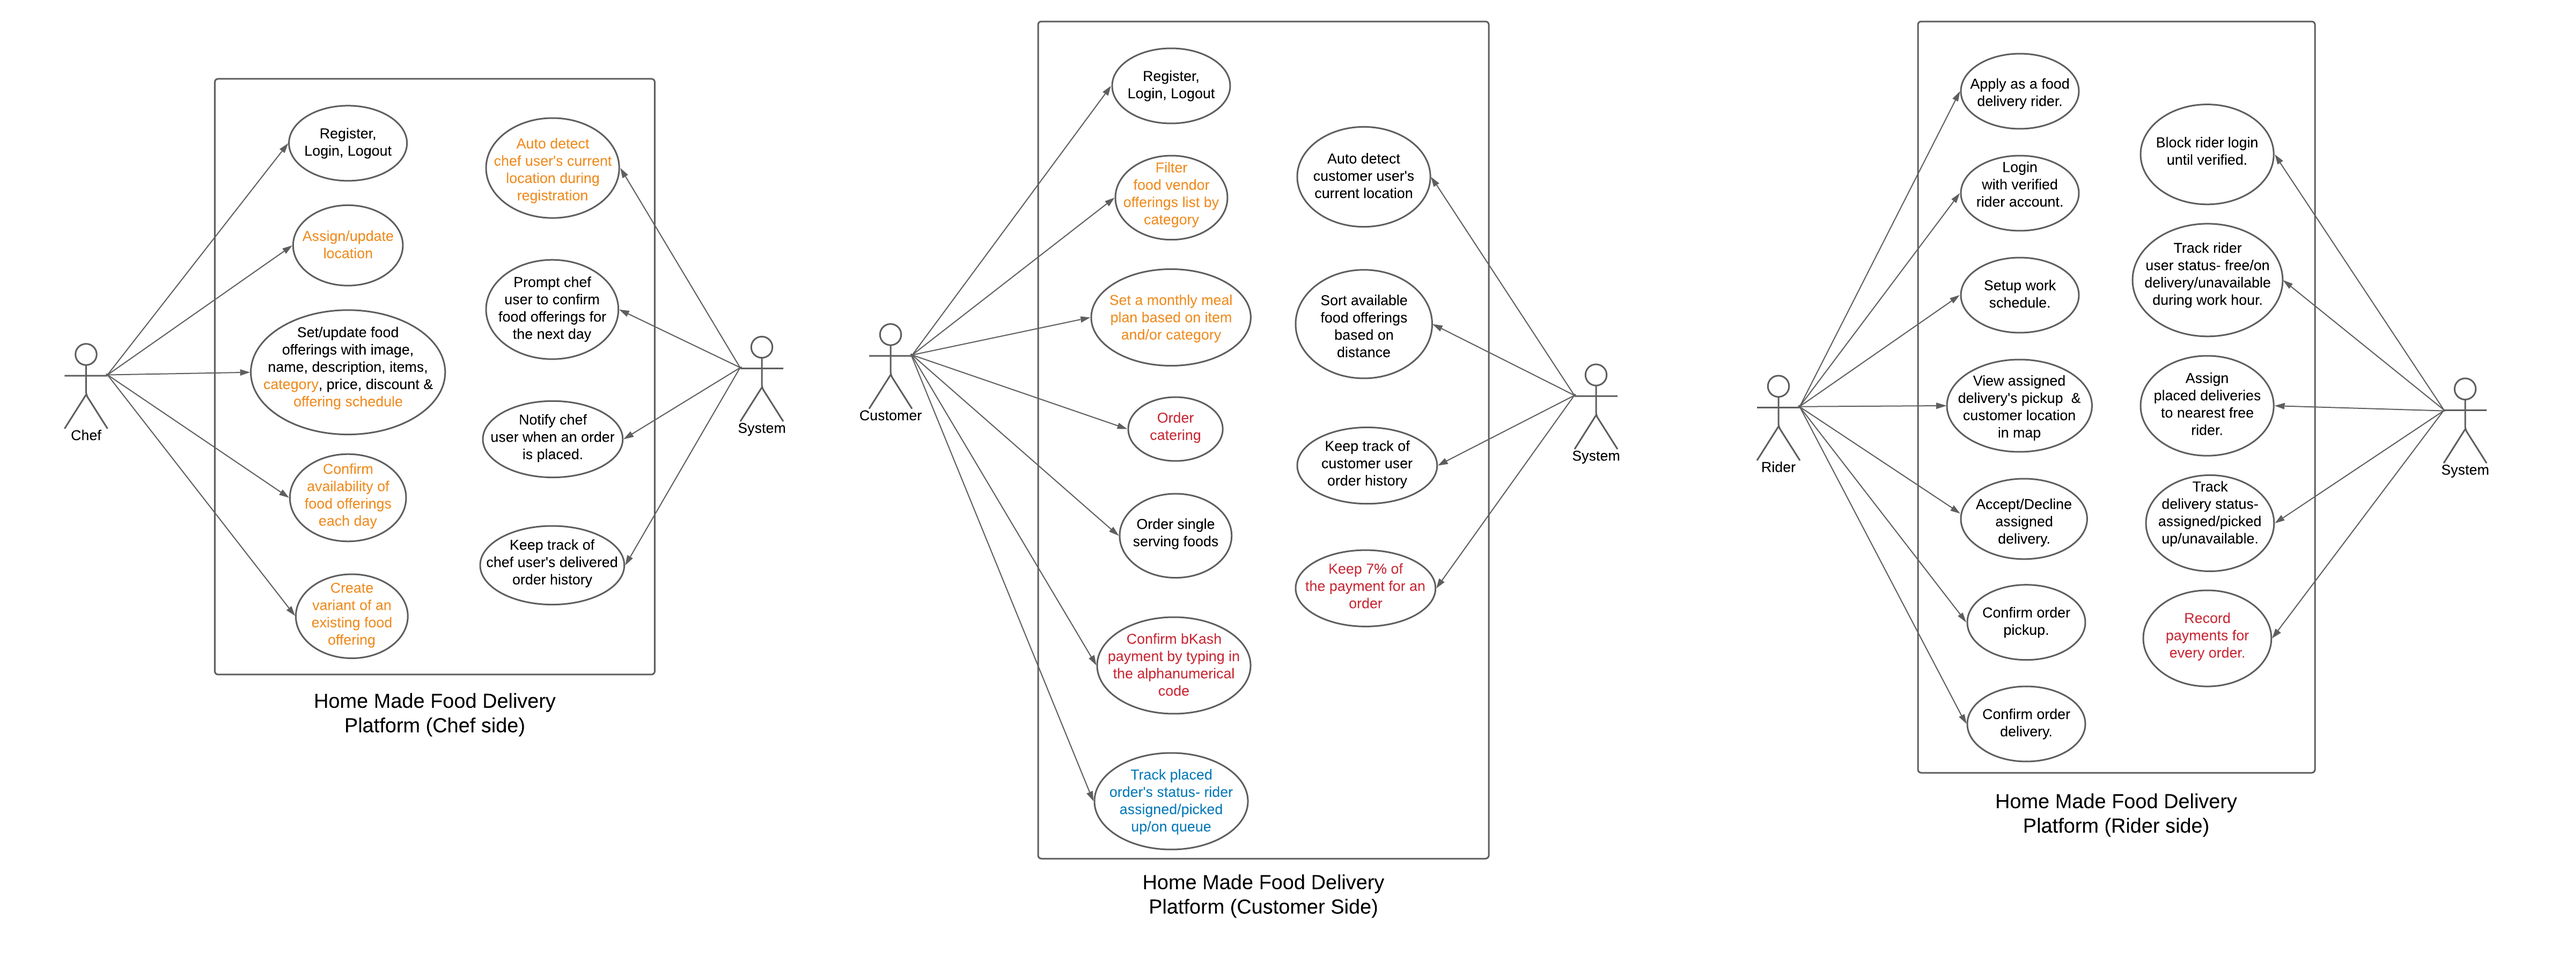
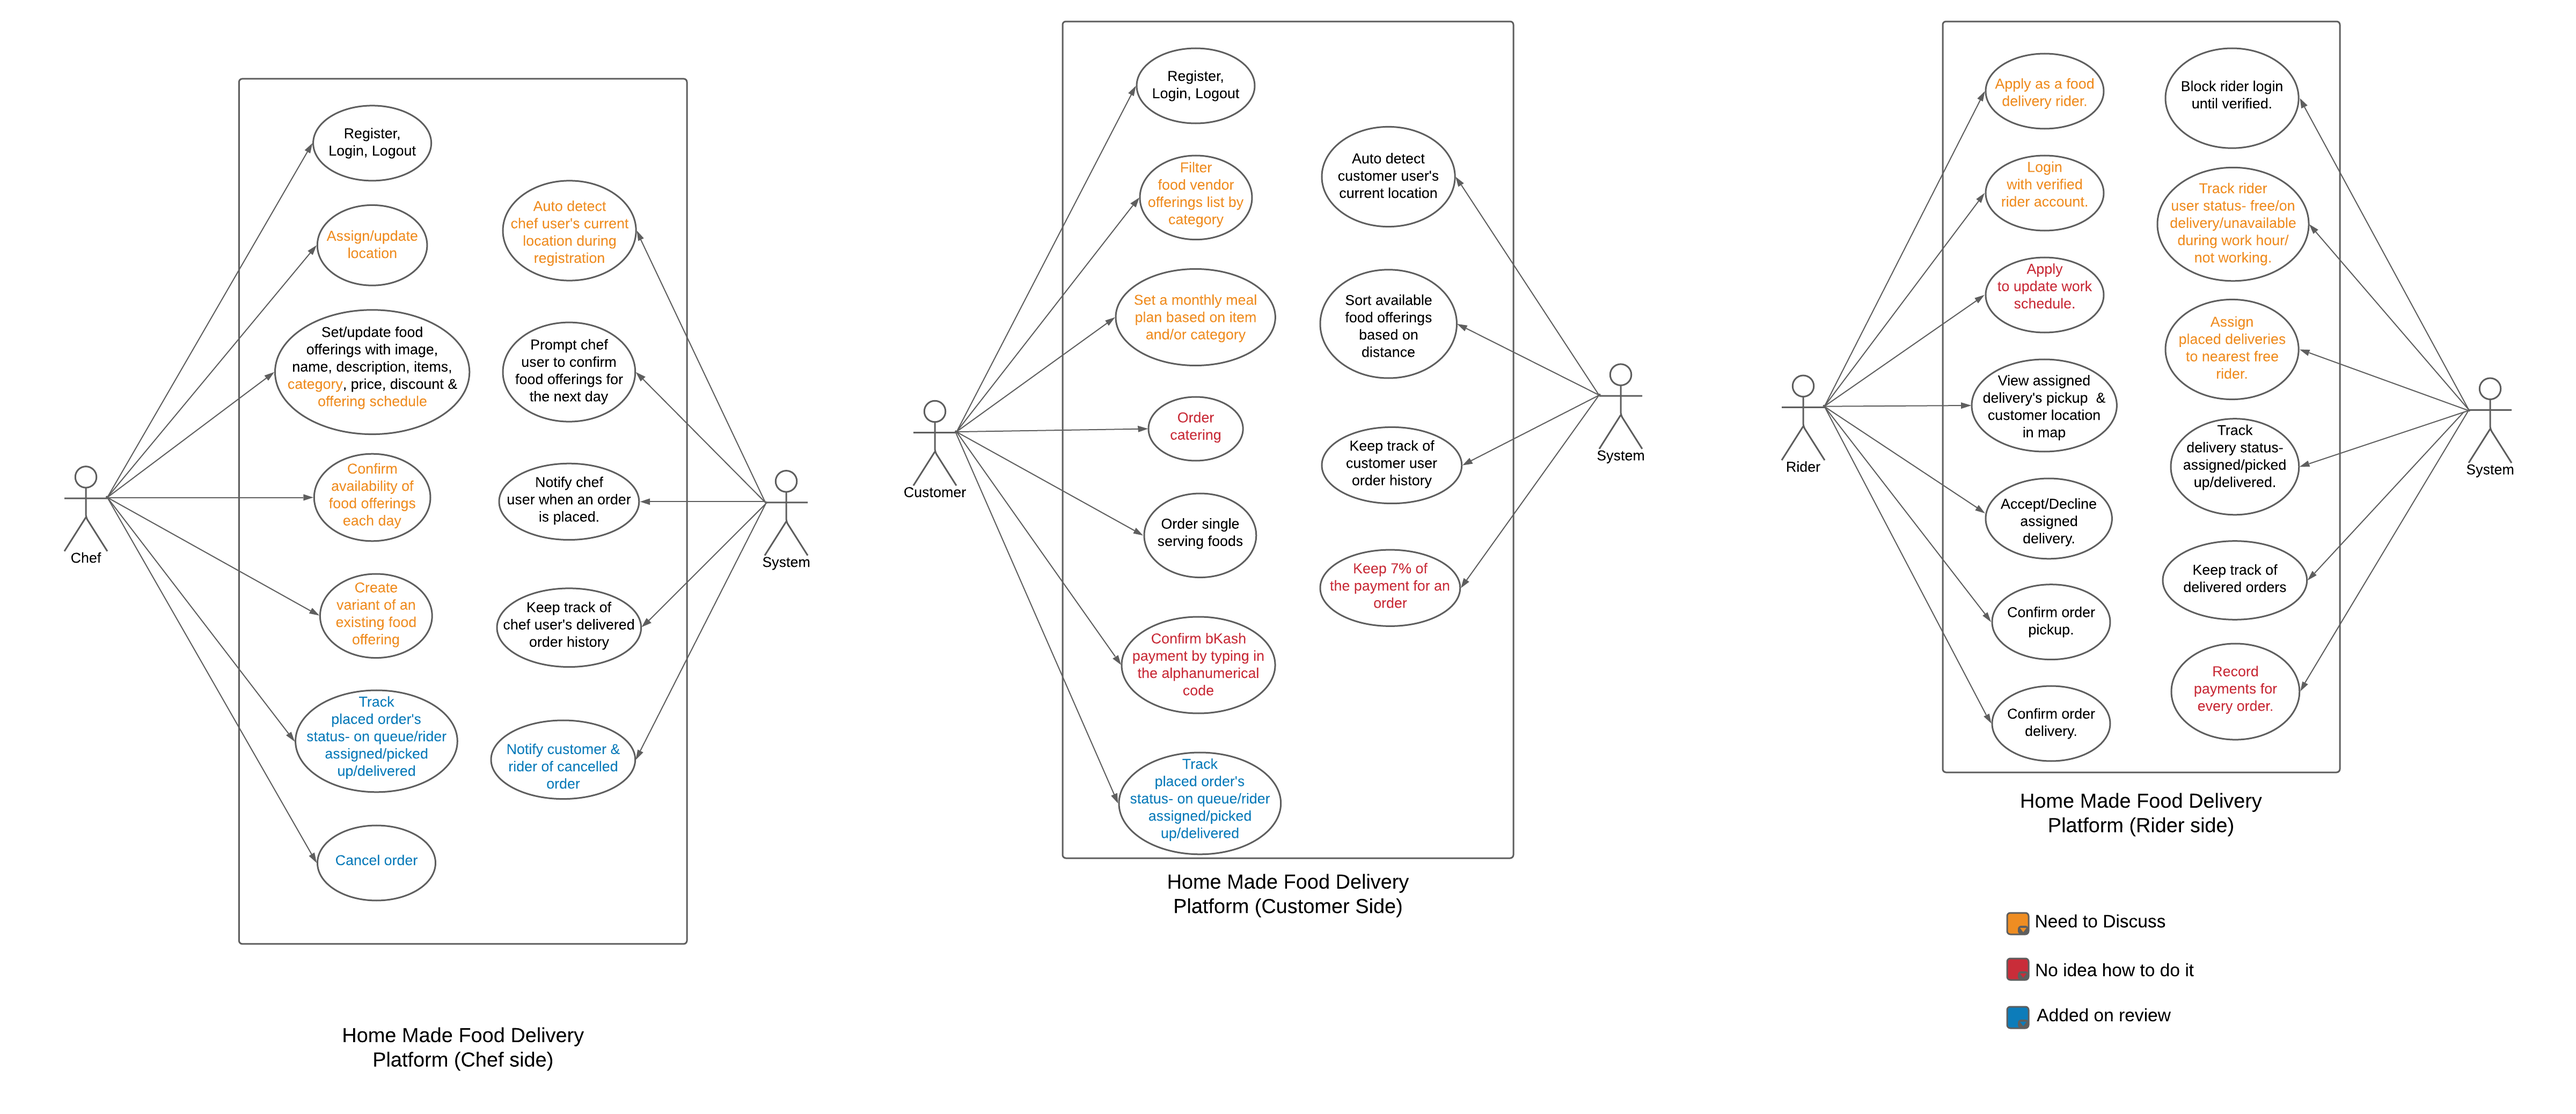
Project Documentation #3: Rider side use cases - Rider use cases & features addition - Chef/Vendor & Customer side use case & feature updates

diff --git a/Android Project/Documentation/README.md b/Android Project/Documentation/README.md
@@ -51,7 +51,17 @@ https://lucid.app/invitations/accept/6b9bb266-a47c-4394-a7a1-6f76b722b633
 
 8. Notify chef user when an order is placed. **[S]**  
 
-9. Keep track of chef user's delivered orders. **[S]**  
+9. Cancel placed order.  
+
+10. Notify rider(if assigned) and customer of cancelled order. **[S]**  
+
+11. Keep track of chef user's delivered orders. **[S]**  
+
+12. Track placed order's status, **[S]**
+    - *In Queue*- Rider not assigned yet.  
+    - *Rider Assigned*- Rider assigned not picked up yet.  
+    - *Picked Up*- delivery picked up from vendor and on the way.
+    - *Delivered*- Customer received the food.
 
 ### **Customer side features**
 
@@ -73,4 +83,55 @@ https://lucid.app/invitations/accept/6b9bb266-a47c-4394-a7a1-6f76b722b633
 
 9. Keep track of customer user order history. **[S]**  
 
-10. <span style="color:red">Keep 7% of the payment for an order. (how?)<span> **[S]**
+10. <span style="color:red">Keep 7% of the payment for an order. (how?)<span> **[S]**  
+
+11. Track placed order's status, **[S]**  
+    - *In Queue*- Rider not assigned yet.  
+    - *Rider Assigned*- Rider assigned not picked up yet.  
+    - *Picked Up*- delivery picked up from vendor and on the way.
+    - *Delivered*- Customer received the food.
+
+### **Rider side features**
+  
+1. <span style="color:yellow">Apply to become a food delivery rider by providing,<span>  
+    - *Full Name*  
+    - *Work Schedule* - Days and hours rider wants to work for.
+    - *Phone Number*  
+    - *Age* - Must be above 18.  
+    - *Vehicle Type* - Bicycle, Motorbike, Car
+    - *Vehicle Purchase Documents* - Attach photo of documents that prove of vehicles ownership.
+    - *Driver's License* - Attach photo.
+    - *NID Card Photo* Attach photo.
+
+2. Block rider account until verified.**[S]**  
+
+3. <span style="color:yellow">Login with verified rider account using,<span>
+   - *Phone number* - used during applying.
+   - *Assigned Password* - password is assigned by system after rider is verified.  
+
+4. <span style="color:red">Apply to update work schedule.<span>  
+
+5. <span style="color:yellow">Track rider user's status,<span> **[S]**
+   - Free - During work hour but rider isn't assigned any delivery.  
+   - On Delivery - Currently working on a delivery.  
+   - Unavailable - Rider is unavailable during work hour(not online in app).  
+   - Not working - It's not rider's work schedule.  
+
+6. <span style="color:yellow">Assign placed order's delivery to nearby rider.<span> **[S]**  
+
+7. View assigned delivery's pickup & customer location.  
+
+8. Accept or Decline assigned delivery.  
+
+9. Track delivery's status, **[S]**
+    - *Rider Assigned*- Rider assigned not picked up yet.  
+    - *Picked Up*- delivery picked up from vendor and on the way.
+    - *Delivered*- Customer received the food.  
+
+10. Confirm order pickup.  
+
+11. Confirm order delivery.  
+
+12. Keep track of delivered orders. **[S]**  
+
+13. <span style="color:red">Record payments for every order.<span> **[S]**
